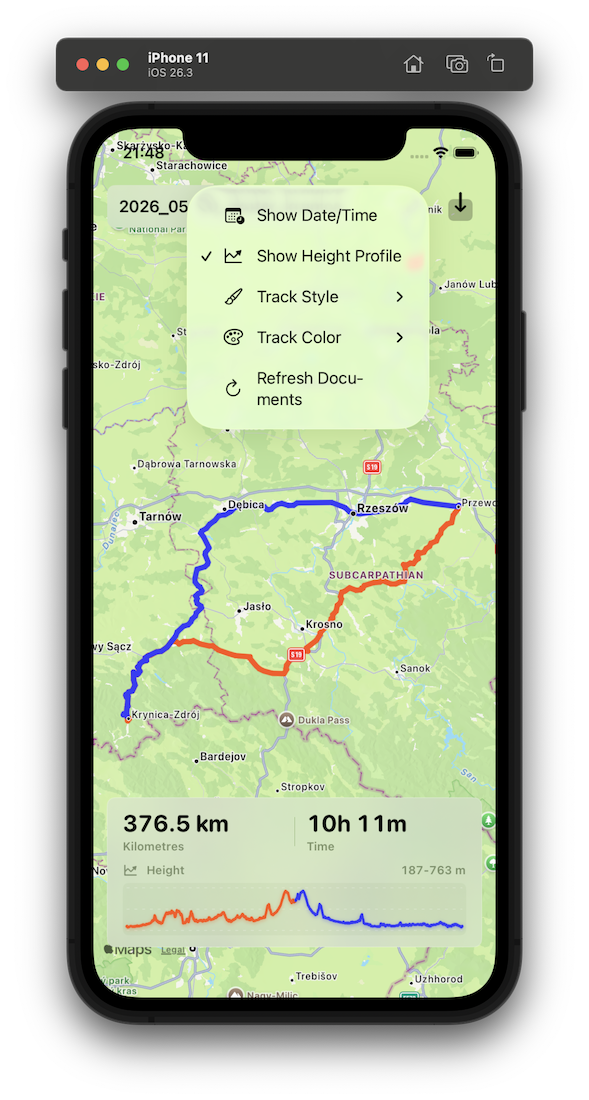
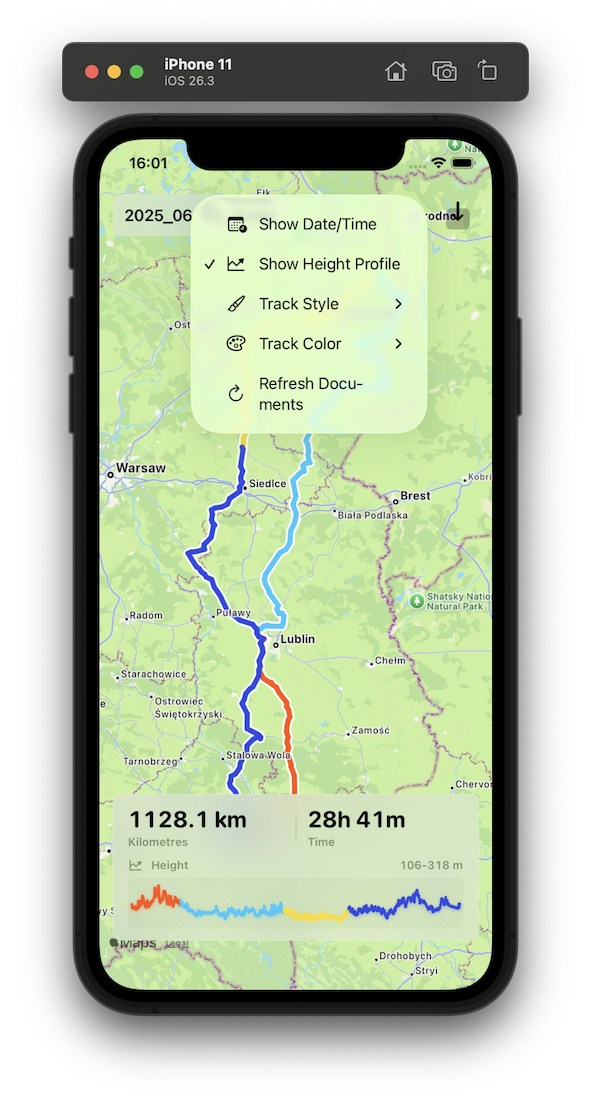
Implemented the multi-day color change in GPXModels.swift (line 339). Consecutive days now use a contrast-first hue sequence, so neighboring segments alternate across opposite sides of the color wheel instead of drifting into blue/violet adjacency. I also changed the green/lime fallback so it shifts

Changed region(s): [[0.0917, 0.0309, 0.9168, 0.9582]]

diff --git a/GPX-Renderer/GPX-Renderer/GPXModels.swift b/GPX-Renderer/GPX-Renderer/GPXModels.swift
@@ -337,6 +337,10 @@ enum TrackColorMode: String, CaseIterable, Identifiable {
 }
 
 enum TrackColorStyling {
+    private static let multiDayHueOffsets: [CGFloat] = [
+        0.00, 0.50, 0.10, 0.60, 0.20, 0.70, 0.30, 0.80, 0.40, 0.90
+    ]
+
     static func trackDays(in track: GPXTrack, calendar: Calendar) -> [Date] {
         let days = Set(track.allPoints.compactMap { point in
             point.time.map { calendar.startOfDay(for: $0) }
@@ -356,18 +360,28 @@ enum TrackColorStyling {
         guard index > 0 else { return baseColor }
 
         let baseHue = hue(from: baseColor)
-        let hue = (baseHue + CGFloat(index) * 0.618_033_988_75).truncatingRemainder(dividingBy: 1)
+        let hue = (baseHue + multiDayHueOffset(forDayAt: index)).truncatingRemainder(dividingBy: 1)
         let saturation: CGFloat = index.isMultiple(of: 2) ? 0.88 : 0.78
         let brightness: CGFloat = index.isMultiple(of: 3) ? 0.88 : 0.98
 
         return UIColor(hue: mapFriendlyHue(hue), saturation: saturation, brightness: brightness, alpha: 1)
     }
 
+    private static func multiDayHueOffset(forDayAt index: Int) -> CGFloat {
+        if index < multiDayHueOffsets.count {
+            return multiDayHueOffsets[index]
+        }
+
+        let offset = multiDayHueOffsets[index % multiDayHueOffsets.count]
+        let repeatShift = CGFloat(index / multiDayHueOffsets.count) * 0.05
+        return (offset + repeatShift).truncatingRemainder(dividingBy: 1)
+    }
+
     private static func mapFriendlyHue(_ hue: CGFloat) -> CGFloat {
         let greenAndLimeRange: ClosedRange<CGFloat> = 0.16...0.43
         guard greenAndLimeRange.contains(hue) else { return hue }
 
-        return (hue + 0.34).truncatingRemainder(dividingBy: 1)
+        return (hue + 0.66).truncatingRemainder(dividingBy: 1)
     }
 
     private static func hue(from color: UIColor) -> CGFloat {

diff --git a/GPX-Renderer/GPX-Renderer/GPXFileStore.swift b/GPX-Renderer/GPX-Renderer/GPXFileStore.swift
@@ -11,10 +11,10 @@ struct GPXFileStore {
 
     var sampleURL: URL? {
         Bundle.main.url(
-            forResource: "2026_05_20_skuter_krynica",
+            forResource: "2025_06_09_skuter",
             withExtension: "gpx",
             subdirectory: "Sample"
-        ) ?? Bundle.main.url(forResource: "2026_05_20_skuter_krynica", withExtension: "gpx")
+        ) ?? Bundle.main.url(forResource: "2025_06_09_skuter", withExtension: "gpx")
     }
 
     var appGroupContainer: URL? {
